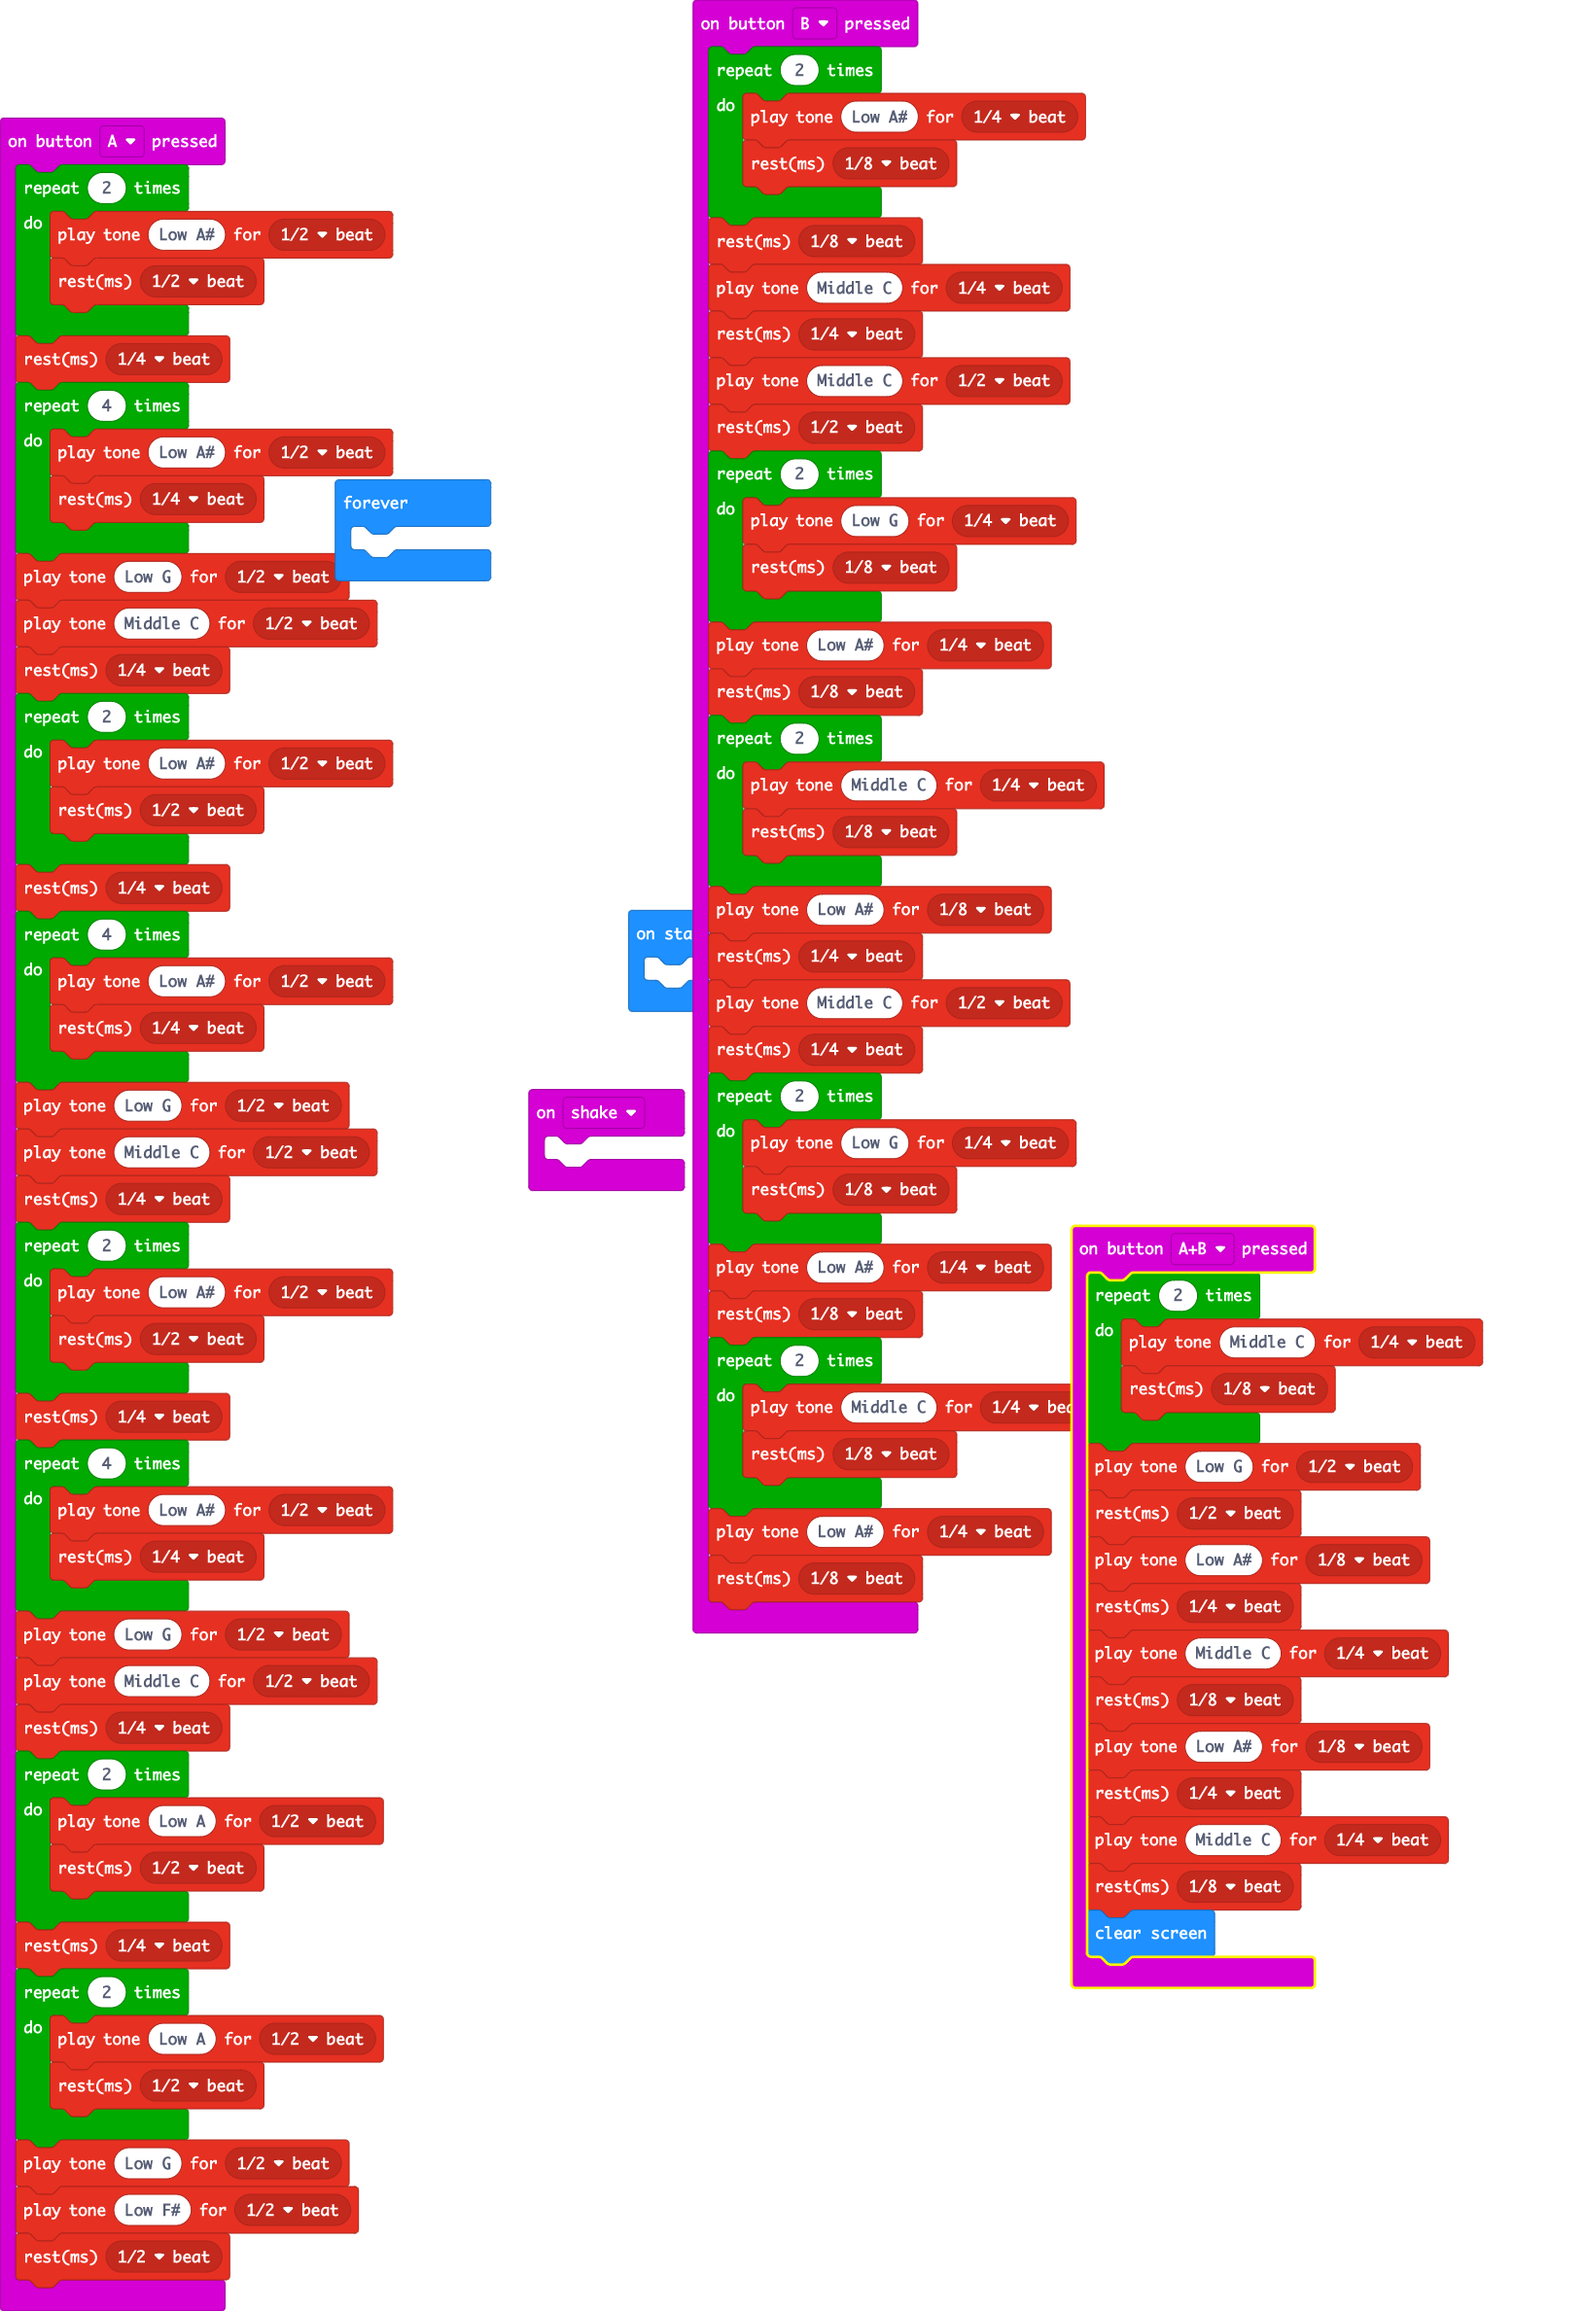
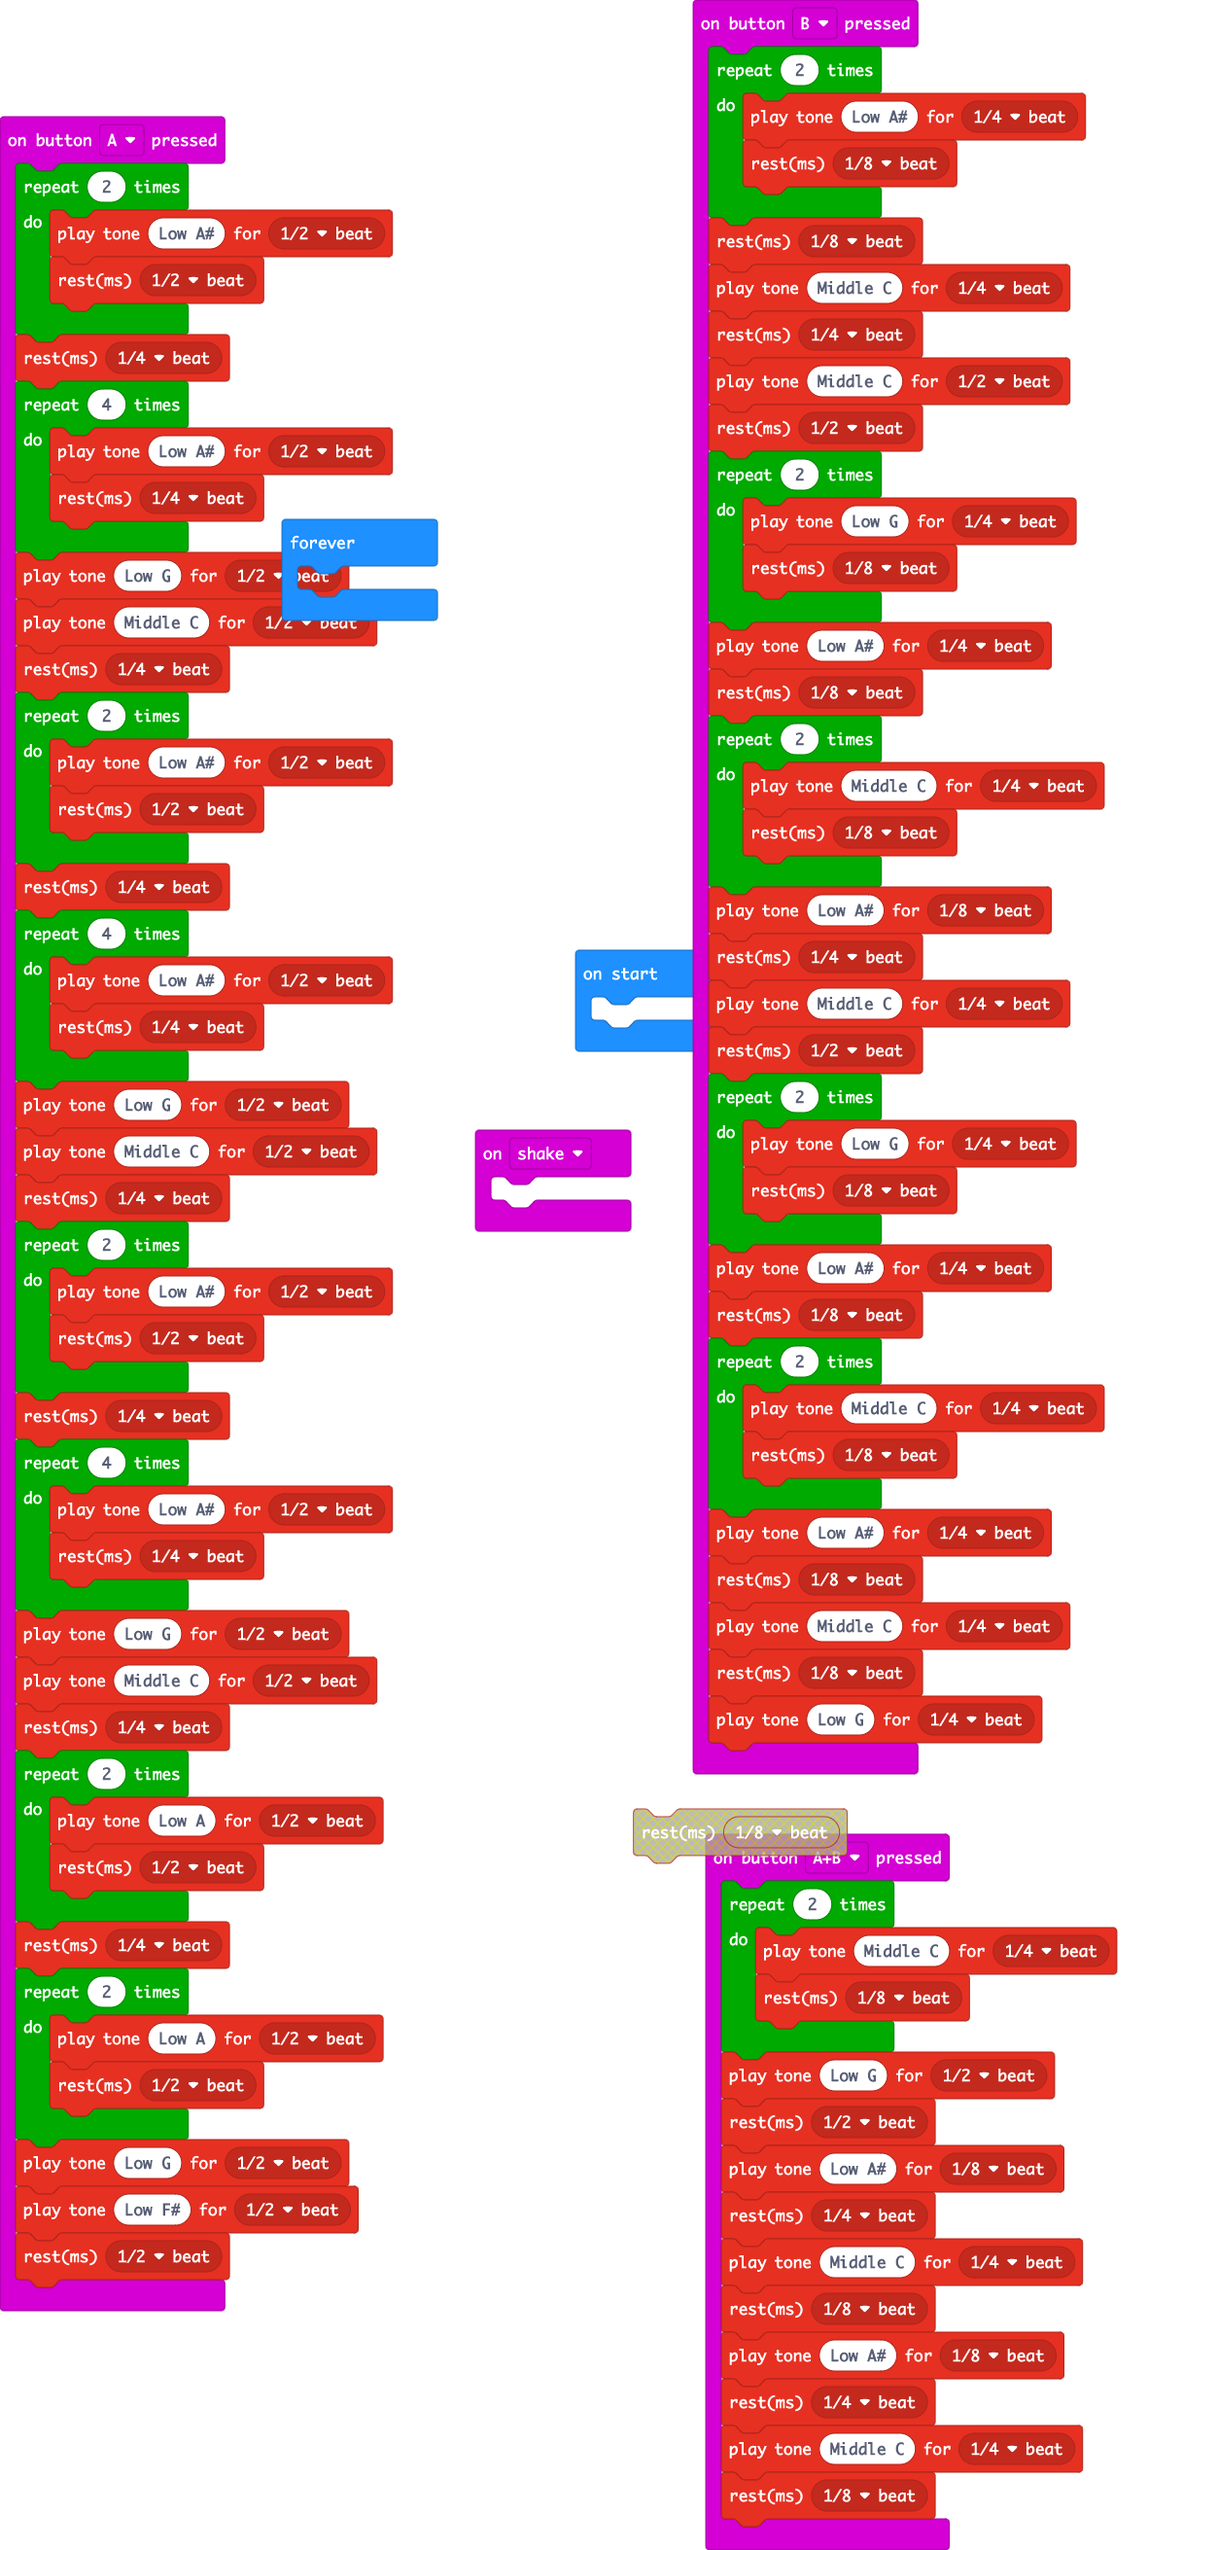
Update main.blocks, main.ts, main.py

diff --git a/main.ts b/main.ts
@@ -63,7 +63,6 @@ input.onButtonPressed(Button.AB, function () {
     music.rest(music.beat(BeatFraction.Quarter))
     music.playTone(262, music.beat(BeatFraction.Quarter))
     music.rest(music.beat(BeatFraction.Eighth))
-    basic.clearScreen()
 })
 input.onButtonPressed(Button.B, function () {
     for (let index = 0; index < 2; index++) {
@@ -87,8 +86,8 @@ input.onButtonPressed(Button.B, function () {
     }
     music.playTone(233, music.beat(BeatFraction.Eighth))
     music.rest(music.beat(BeatFraction.Quarter))
-    music.playTone(262, music.beat(BeatFraction.Half))
-    music.rest(music.beat(BeatFraction.Quarter))
+    music.playTone(262, music.beat(BeatFraction.Quarter))
+    music.rest(music.beat(BeatFraction.Half))
     for (let index = 0; index < 2; index++) {
         music.playTone(196, music.beat(BeatFraction.Quarter))
         music.rest(music.beat(BeatFraction.Eighth))
@@ -101,6 +100,9 @@ input.onButtonPressed(Button.B, function () {
     }
     music.playTone(233, music.beat(BeatFraction.Quarter))
     music.rest(music.beat(BeatFraction.Eighth))
+    music.playTone(262, music.beat(BeatFraction.Quarter))
+    music.rest(music.beat(BeatFraction.Eighth))
+    music.playTone(196, music.beat(BeatFraction.Quarter))
 })
 input.onGesture(Gesture.Shake, function () {
 	

diff --git a/main.py b/main.py
@@ -1,14 +1,99 @@
 def on_button_pressed_a():
     for index in range(2):
-        music.play_tone(196, music.beat(BeatFraction.HALF))
+        music.play_tone(233, music.beat(BeatFraction.HALF))
         music.rest(music.beat(BeatFraction.HALF))
     music.rest(music.beat(BeatFraction.QUARTER))
     for index2 in range(4):
-        music.play_tone(196, music.beat(BeatFraction.HALF))
+        music.play_tone(233, music.beat(BeatFraction.HALF))
         music.rest(music.beat(BeatFraction.QUARTER))
-    music.play_tone(262, music.beat(BeatFraction.WHOLE))
-    music.play_tone(262, music.beat(BeatFraction.WHOLE))
+    music.play_tone(196, music.beat(BeatFraction.HALF))
+    music.play_tone(262, music.beat(BeatFraction.HALF))
+    music.rest(music.beat(BeatFraction.QUARTER))
+    for index3 in range(2):
+        music.play_tone(233, music.beat(BeatFraction.HALF))
+        music.rest(music.beat(BeatFraction.HALF))
+    music.rest(music.beat(BeatFraction.QUARTER))
+    for index4 in range(4):
+        music.play_tone(233, music.beat(BeatFraction.HALF))
+        music.rest(music.beat(BeatFraction.QUARTER))
+    music.play_tone(196, music.beat(BeatFraction.HALF))
+    music.play_tone(262, music.beat(BeatFraction.HALF))
+    music.rest(music.beat(BeatFraction.QUARTER))
+    for index5 in range(2):
+        music.play_tone(233, music.beat(BeatFraction.HALF))
+        music.rest(music.beat(BeatFraction.HALF))
+    music.rest(music.beat(BeatFraction.QUARTER))
+    for index6 in range(4):
+        music.play_tone(233, music.beat(BeatFraction.HALF))
+        music.rest(music.beat(BeatFraction.QUARTER))
+    music.play_tone(196, music.beat(BeatFraction.HALF))
+    music.play_tone(262, music.beat(BeatFraction.HALF))
+    music.rest(music.beat(BeatFraction.QUARTER))
+    for index7 in range(2):
+        music.play_tone(220, music.beat(BeatFraction.HALF))
+        music.rest(music.beat(BeatFraction.HALF))
+    music.rest(music.beat(BeatFraction.QUARTER))
+    for index8 in range(2):
+        music.play_tone(220, music.beat(BeatFraction.HALF))
+        music.rest(music.beat(BeatFraction.HALF))
+    music.play_tone(196, music.beat(BeatFraction.HALF))
+    music.play_tone(185, music.beat(BeatFraction.HALF))
+    music.rest(music.beat(BeatFraction.HALF))
 input.on_button_pressed(Button.A, on_button_pressed_a)
+
+def on_button_pressed_ab():
+    for index9 in range(2):
+        music.play_tone(262, music.beat(BeatFraction.QUARTER))
+        music.rest(music.beat(BeatFraction.EIGHTH))
+    music.play_tone(196, music.beat(BeatFraction.HALF))
+    music.rest(music.beat(BeatFraction.HALF))
+    music.play_tone(233, music.beat(BeatFraction.EIGHTH))
+    music.rest(music.beat(BeatFraction.QUARTER))
+    music.play_tone(262, music.beat(BeatFraction.QUARTER))
+    music.rest(music.beat(BeatFraction.EIGHTH))
+    music.play_tone(233, music.beat(BeatFraction.EIGHTH))
+    music.rest(music.beat(BeatFraction.QUARTER))
+    music.play_tone(262, music.beat(BeatFraction.QUARTER))
+    music.rest(music.beat(BeatFraction.EIGHTH))
+    basic.show_string("Hello!")
+input.on_button_pressed(Button.AB, on_button_pressed_ab)
+
+def on_button_pressed_b():
+    for index10 in range(2):
+        music.play_tone(233, music.beat(BeatFraction.QUARTER))
+        music.rest(music.beat(BeatFraction.EIGHTH))
+    music.rest(music.beat(BeatFraction.EIGHTH))
+    music.play_tone(262, music.beat(BeatFraction.QUARTER))
+    music.rest(music.beat(BeatFraction.QUARTER))
+    music.play_tone(262, music.beat(BeatFraction.HALF))
+    music.rest(music.beat(BeatFraction.HALF))
+    for index11 in range(2):
+        music.play_tone(196, music.beat(BeatFraction.QUARTER))
+        music.rest(music.beat(BeatFraction.EIGHTH))
+    music.play_tone(233, music.beat(BeatFraction.QUARTER))
+    music.rest(music.beat(BeatFraction.EIGHTH))
+    for index12 in range(2):
+        music.play_tone(262, music.beat(BeatFraction.QUARTER))
+        music.rest(music.beat(BeatFraction.EIGHTH))
+    music.play_tone(233, music.beat(BeatFraction.EIGHTH))
+    music.rest(music.beat(BeatFraction.QUARTER))
+    music.play_tone(262, music.beat(BeatFraction.HALF))
+    music.rest(music.beat(BeatFraction.QUARTER))
+    for index13 in range(2):
+        music.play_tone(196, music.beat(BeatFraction.QUARTER))
+        music.rest(music.beat(BeatFraction.EIGHTH))
+    music.play_tone(233, music.beat(BeatFraction.QUARTER))
+    music.rest(music.beat(BeatFraction.EIGHTH))
+    for index14 in range(2):
+        music.play_tone(262, music.beat(BeatFraction.QUARTER))
+        music.rest(music.beat(BeatFraction.EIGHTH))
+    music.play_tone(233, music.beat(BeatFraction.QUARTER))
+    music.rest(music.beat(BeatFraction.EIGHTH))
+input.on_button_pressed(Button.B, on_button_pressed_b)
+
+def on_gesture_shake():
+    pass
+input.on_gesture(Gesture.SHAKE, on_gesture_shake)
 
 def on_forever():
     pass
